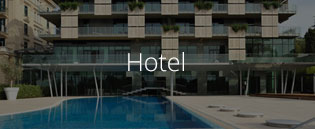
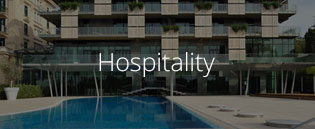
bugfixes: enquireAfterPriceOfSelectedProperty; hospitality tile re-rendered; contact bar formatting

Changed region(s): [[0.3143, 0.4031, 0.6857, 0.6202]]

diff --git a/django_web_server/static/fragments/contactbar.html b/django_web_server/static/fragments/contactbar.html
@@ -18,12 +18,12 @@
 			</div>
 
 			<div style='float:right;margin-right:100px;'>
-				<span>email</span>
+				<span>Email:</span>
 				<a href='' 
 		  			style='color:#a3a3a3;'
 		  			ng-click='emailPrimaryContact();'>{{ model.getPrimaryContact().email }}</a>
 				&middot;
-				<span>phone</span>
+				<span>Phone:</span>
 				<span>{{ model.getPrimaryContact().phone }}</span>
 			</div>
 

diff --git a/django_web_server/static/js/controllers/god.controller.js b/django_web_server/static/js/controllers/god.controller.js
@@ -296,7 +296,7 @@ function GodController($rootScope, $scope, $http, $timeout, $interval) {
 		var cc = $scope.model.getCCContact();
 		var subject = $scope.model.selectedProperty['name'];
 
-		var href = $scope.mailToHref(contact['email'], subject, cc);
+		var href = $scope.mailToHref(contact['email'], subject, cc.email);
 		window.open(href, '_blank');
 	};
 
